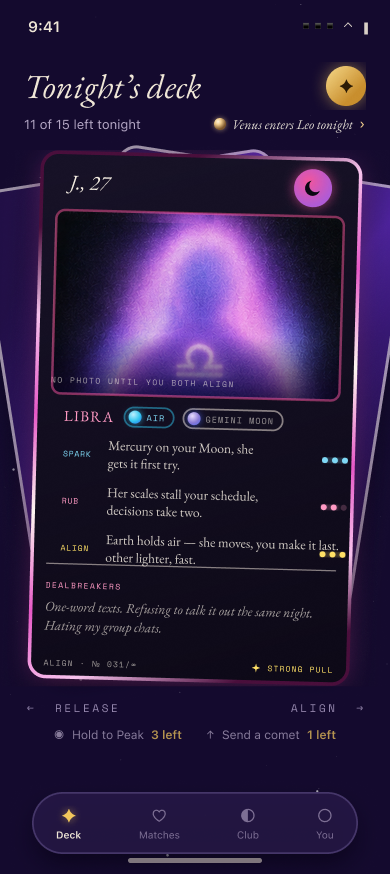
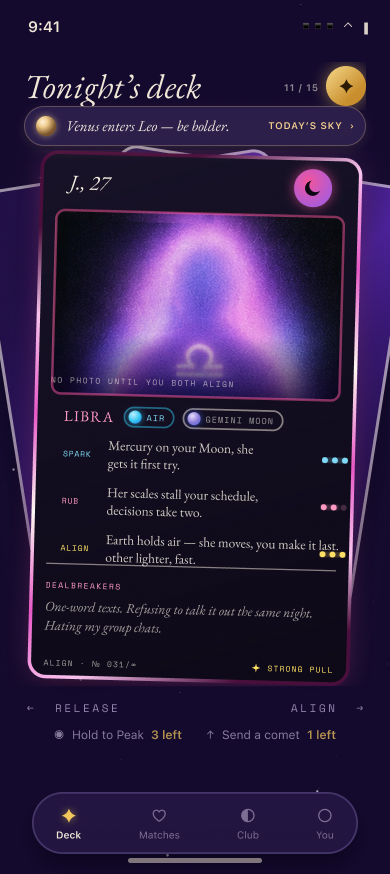
Deck: full Today's sky strip under the title; S-09b sheet carries the S-21 guide card
Claude-Session: https://claude.ai/code/session_016YjMTARDAwfH7MsqGSPAVh

Changed region(s): [[0.0615, 0.0927, 0.9538, 0.1854]]

diff --git a/design/scores.md b/design/scores.md
@@ -351,13 +351,22 @@ The Figma file was restored from version history (3:54) after the desktop
 app dropped the Stardust section during an MCP reconnect; the audit showed
 everything through the ladder normalisation survived, and O-14 was rebuilt.
 
-### The deck's horoscope tab is back (2026-09-21, founder note)
+### The deck's horoscope strip is back (2026-09-21, founder note)
 
 v1's deck carried a strip under the header — *Venus enters Leo tonight — be
 bolder.* / `TODAY'S SKY · TAP FOR YOUR FULL READING` — that the redesign
-dropped. The new deck has no vertical slack, so it lives on the count line:
-`11 of 15 left tonight` at left, and at right a `sky teaser` (12px gold
-moon sphere · *Venus enters Leo tonight* · `›`) that navigates to S-14
-Sky. Added to S-03, S-04, S-05, S-05b, S-05c, S-05e; the four S-05x sky
-states already carry their sky readout and S-05d's Peak header is left
-alone.
+dropped. A small count-line teaser was tried first ("needs to be more
+prominent"), so it is now the full strip: `sky strip` 342×40 at y 106, panel
+`#2B1E4C` with a gold hairline, a 20px gold moon sphere, *Venus enters Leo
+— be bolder.* and `TODAY'S SKY ›` in gold; it navigates to S-14. The count
+(`11 / 15`) or the state line moved into the title row's right slot beside
+the gold ✦. Applied to S-03, S-04, S-05, S-05b, S-05c, S-05d, S-05e; the
+four S-05x sky states keep their own readout.
+
+### S-09b carries the guide card (2026-09-21, founder note)
+
+"S-09b is still not right like we agreed on earlier." The chat sheet now
+holds a clone of the final S-21 guide card (auras, introduction, the
+Spark / Rub / Align / Relationship tabs, one section at a time, footer)
+instead of the earlier stacked list; the sheet grew to 634 (y 240) to fit
+it, with the grabber and `PULL DOWN TO CLOSE` kept above the card.
